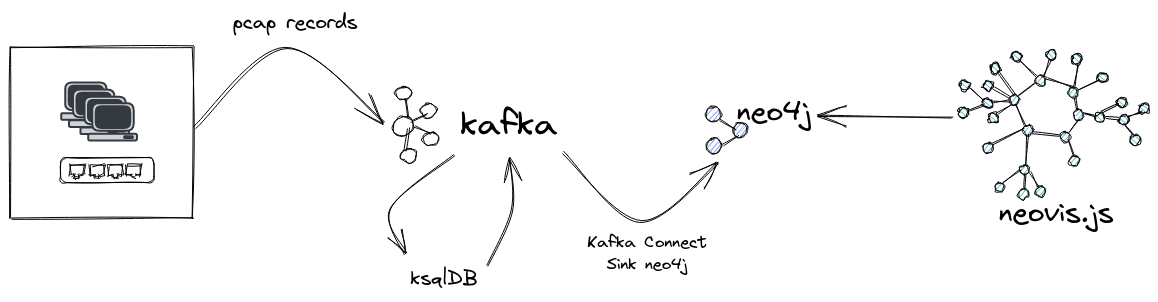
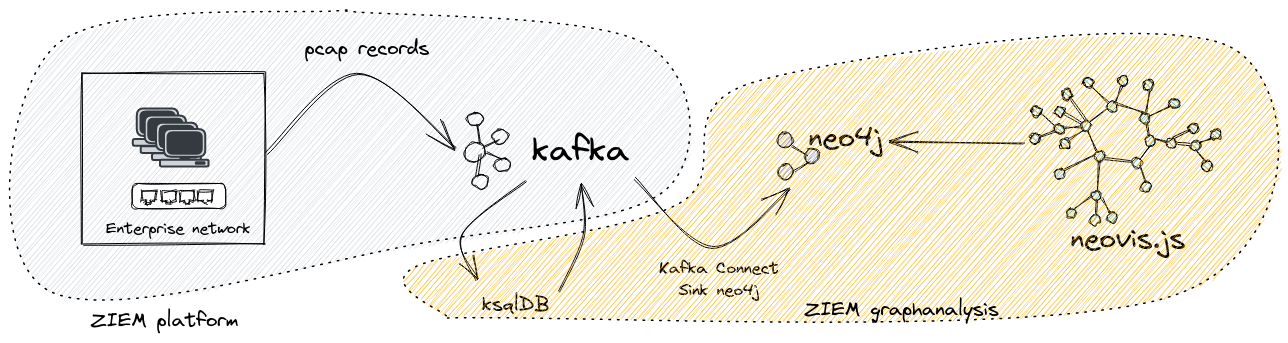
Update diagram and README

diff --git a/README.md b/README.md
@@ -11,6 +11,17 @@ The architecture looks like :
 ![Neovis visualisation](./img/screenshot_V1.png)
 
 
-# How it works ?
+# How does it works ?
+
+Network packets are collected in Kafka then processed with a few ksqlDB scripts to extract
+source and destination IP and count the number of packets.
+
+Then a Neo4j Sink Connector reads data from the output topic and send the data to a neo4j instance. Thus data can be viewed and queried in Neo4j browser, but also with neovis.js and give 
+the nice visualization above.
 
 # Links
+
+* [ksqlDB](https://ksqldb.io/)
+* [Kafka Connect Plugin by Neo4j Streams](https://neo4j.com/labs/kafka/4.0/kafka-connect/) 
+* [neo4j](https://neo4j.com/)
+* [neovis.js](https://github.com/neo4j-contrib/neovis.js/)
